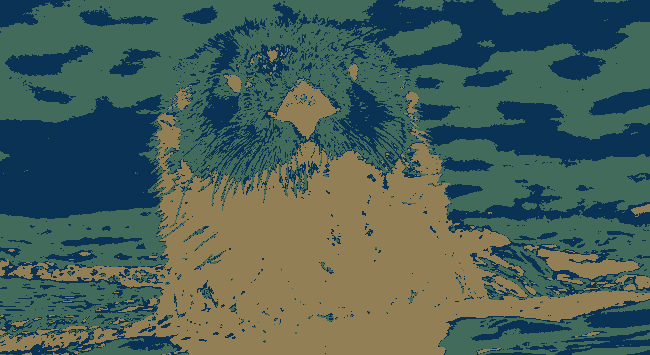
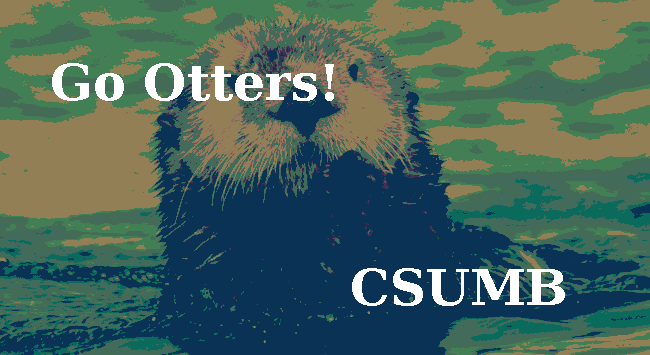
Worked on CSUMBy filter, still has coloring edge case issue with some pixels. new text on image, cleaned up Midterm.py doc some

diff --git a/Midterm.py b/Midterm.py
@@ -1,36 +1,66 @@
-def CSUMBy():
+## Midterm Project -- CST 205
+## Group Members:
+## Mitchell Saunders
+## Nicholas Saunders
+
+def CSUMBy(): ##Call function to get CSUMBized photo
   #call custom function to setMediaPath() to same folder level as this file.
   setMediaPathToCurrentDir()
-  pic = makePicture(pickAFile()) ## use getPic() for testing, and otter? image? or logo, or both?
-  for x in range(0, getWidth(pic)):
-    for y in range(0, getHeight(pic)):
-      p = getPixel(pic, x, y)
-      r = getRed(p)
-      g = getGreen(p)
-      b = getBlue(p)
-      if(r >= 170 and g >=170 and b >= 170): ##Bay Blue r:10 g:50 b:84 
-      #range of color is 170 or greater
-        setRed(p, 10)
-        setGreen(p, 50)
-        setBlue(p, 84)
-      elif(r >= 85 and g >= 85 and b >= 85): ##Valley Green r:67 g:107 b:92
-      #range of color is 85 to 169 
-        setRed(p, 67)
-        setGreen(p, 107)
-        setBlue(p, 92)
-      elif(r < 85 and g < 85 and b < 85):##Golden Sand r:147 g:127 b:85
-      #range of color is strictly less than 85 
-        setRed(p, 147)
-        setGreen(p, 127)
-        setBlue(p, 85)
-      else: ## any pixels that are not in the ranges, set to Bay Blue
-        setRed(p, 10)
-        setGreen(p, 50)
-        setBlue(p, 84)
-  repaint(pic)
+  pic = makePicture(pickAFile())
+  artified= artify(pic)
+  ##adding text
+  textStyle = makeStyle(serif, bold, 50)
+  addTextWithStyle(artified, 50, 100, "Go Otters!", textStyle, white)
+  textStyle = makeStyle(serif, bold, 50)
+  addTextWithStyle(artified, getWidth(artified)-300, getHeight(artified)-50, "CSUMB", textStyle, white)
   
-  writePictureTo(pic, getMediaPath() + "CSUMBy.png")
+  show(artified)  
+  #writePictureTo(pic, getMediaPath() + "CSUMBy.png")
   
+def artify(pic):
+  pixels = getPixels(pic)
+  for pixel in pixels:
+    setRed(pixel, changeColor(pixel.getRed(),"red"))
+    setGreen(pixel, changeColor(pixel.getGreen(),"green"))
+    setBlue(pixel, changeColor(pixel.getBlue(),"blue"))
+  return(pic)  
+    	
+def changeColor(colorValue,type): 
+## issues with output colors, have 3 colors that are close to colors wanted, but still gets painted.
+##Bay Blue r:10 g:50 b:84
+##Valley Green r:67 g:107 b:92
+##Golden Sand r:147 g:127 b:85
+  if(type == "red"):#Red value check
+    if (colorValue >= 0) and (colorValue <= 85):##Bay Blue
+      colorValue = 10
+    if (colorValue > 85) and (colorValue <= 170):##Valley Green
+      colorValue = 67
+    if (colorValue > 170) and (colorValue <= 255):##Golden Sand
+      colorValue = 147
+    return(colorValue)
+    
+  if(type == "green"):#Green value check
+    if (colorValue >= 0) and (colorValue <= 85):##Bay Blue
+      colorValue = 50
+    if (colorValue > 85) and (colorValue <= 170):##Valley Green
+      colorValue = 107
+    if (colorValue > 170) and (colorValue <= 255):##Golden Sand
+      colorValue = 127
+    return(colorValue)
+    
+  if(type == "blue"):#Blue value check
+    if (colorValue >= 0) and (colorValue <= 85):##Bay Blue
+      colorValue = 84
+    if (colorValue > 85) and (colorValue <= 170):##Valley Green
+      colorValue = 92
+    if (colorValue > 170) and (colorValue <= 255):##Golden Sand
+      colorValue = 85
+    return(colorValue)
+  else:
+    return 0
+
+
+###Retro TV function starts here
 
 def vintageTV(): 
 ## use SpeedBoatSmaller.jpg for first image ##1080x720 image, slightly too long
@@ -70,7 +100,8 @@ def darkenColor(pixel):
   setColor(pixel, new_pixColor)
   return pixel
 
-#def distortImage(): ## introduces bending on edges of image
+#def distortEdges(): ## introduces bending on edges of image
+#def fuzzyEffect(): ## intrduces a fuzz to the image
 
 def pyCopy(source, target, targetX, targetY):
   sWidth = getWidth(source)
